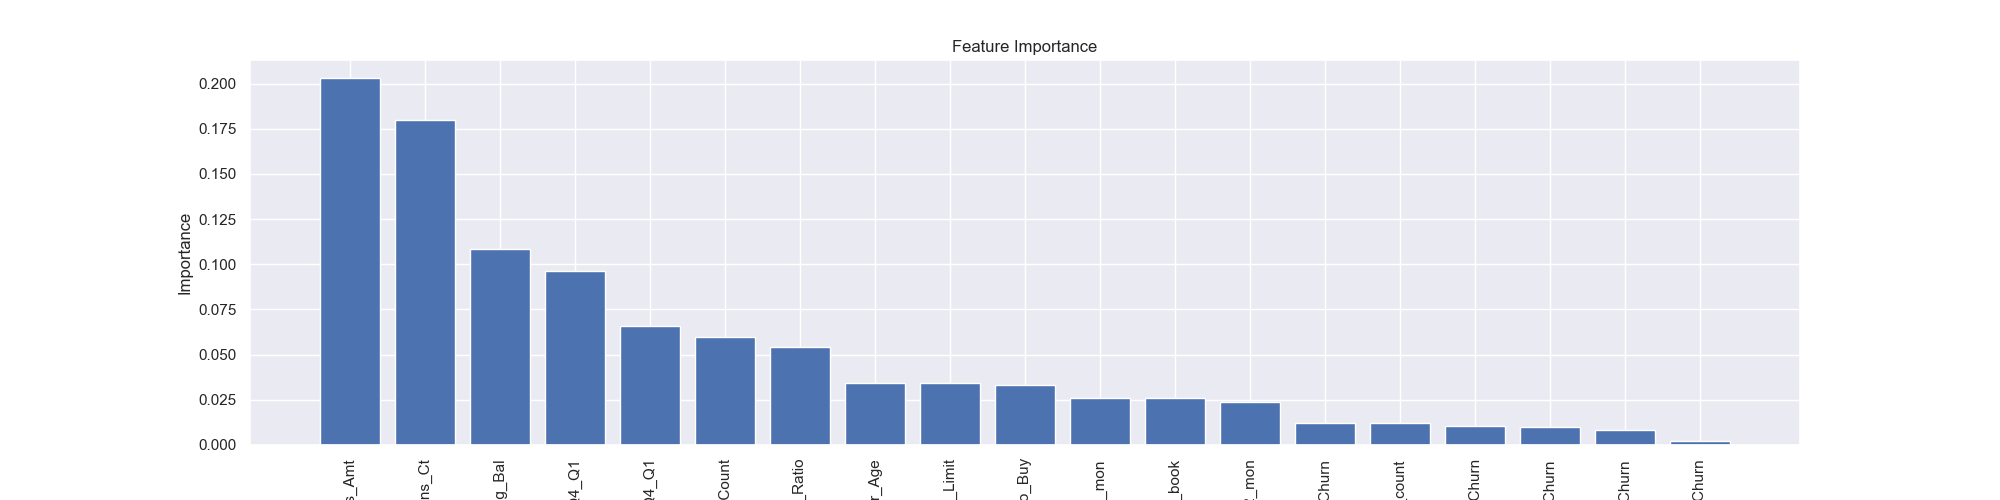
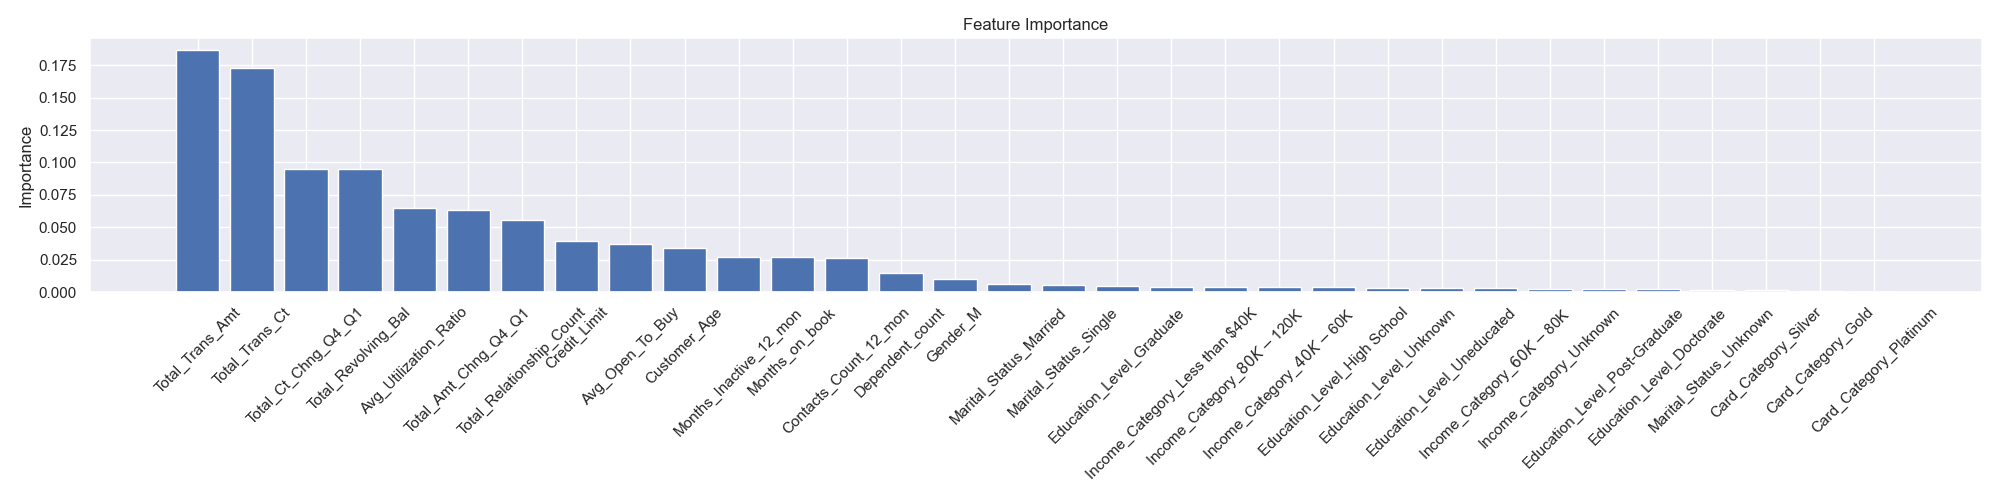
refactor: encoder_helper to produce one-hot-encoding

diff --git a/churn_script_logging_and_tests.py b/churn_script_logging_and_tests.py
@@ -30,8 +30,9 @@ def perform_eda():
 @pytest.fixture()
 def encoder_helper():
     """Test fixture for encoding category fields"""
+
     def _func(churn_df, category_lst):
-        cls.encoder_helper(churn_df, category_lst)
+        return cls.encoder_helper(churn_df, category_lst)
 
     return _func
 
@@ -48,7 +49,7 @@ def perform_feature_engineering():
     ]
 
     def _func(churn_df):
-        cls.encoder_helper(churn_df, cat_columns)
+        churn_df = cls.encoder_helper(churn_df, cat_columns)
         return cls.perform_feature_engineering(churn_df)
 
     return _func
@@ -67,7 +68,7 @@ def train_models():
     ]
 
     def _func(churn_df):
-        cls.encoder_helper(churn_df, cat_columns)
+        churn_df = cls.encoder_helper(churn_df, cat_columns)
         x_train, x_test, y_train, y_test = cls.perform_feature_engineering(churn_df)
         cls.train_models(x_train, x_test, y_train, y_test)
 
@@ -136,11 +137,19 @@ def test_encoder_helper(encoder_helper):
         'Income_Category',
         'Card_Category'
     ]
-    enc_columns = [f'{col}_Churn' for col in cat_columns]
+    enc_columns = ['Gender_M', 'Education_Level_Doctorate',
+                   'Education_Level_Graduate', 'Education_Level_High School',
+                   'Education_Level_Post-Graduate', 'Education_Level_Uneducated',
+                   'Education_Level_Unknown', 'Marital_Status_Married',
+                   'Marital_Status_Single', 'Marital_Status_Unknown',
+                   'Income_Category_$40K - $60K', 'Income_Category_$60K - $80K',
+                   'Income_Category_$80K - $120K', 'Income_Category_Less than $40K',
+                   'Income_Category_Unknown', 'Card_Category_Gold',
+                   'Card_Category_Platinum', 'Card_Category_Silver']
     churn_df = bank_data()
-    encoder_helper(churn_df, cat_columns)
+    churn_df = encoder_helper(churn_df, cat_columns)
 
-    assert set(cat_columns).issubset(churn_df.columns)
+    assert not set(cat_columns).issubset(churn_df.columns)
     assert set(enc_columns).issubset(churn_df.columns)
 
 
@@ -157,8 +166,8 @@ def test_perform_feature_engineering(perform_feature_engineering):
     assert isinstance(y_test, pd.Series)
     assert y_train.shape == (7088,)
     assert y_test.shape == (3039,)
-    assert x_train.shape == (7088, 19)
-    assert x_test.shape == (3039, 19)
+    assert x_train.shape == (7088, 32)
+    assert x_test.shape == (3039, 32)
 
 
 def test_train_models(train_models):

diff --git a/churn_library.py b/churn_library.py
@@ -106,14 +106,7 @@ def encoder_helper(
     output:
             df: pandas dataframe with new columns for
     """
-
-    def _calc_mean_churn(column: str):
-        groups: pd.Series = churn_df.groupby(column).mean()['Churn']
-        lst = [groups.loc[val] for val in churn_df[column]]
-        churn_df[f'{column}_Churn'] = lst
-
-    for category in category_lst:
-        _calc_mean_churn(category)
+    return pd.get_dummies(churn_df, columns=category_lst, drop_first=True)
 
 
 def perform_feature_engineering(churn_df: pd.DataFrame) \
@@ -145,11 +138,15 @@ def perform_feature_engineering(churn_df: pd.DataFrame) \
         'Total_Trans_Ct',
         'Total_Ct_Chng_Q4_Q1',
         'Avg_Utilization_Ratio',
-        'Gender_Churn',
-        'Education_Level_Churn',
-        'Marital_Status_Churn',
-        'Income_Category_Churn',
-        'Card_Category_Churn']
+        'Gender_M', 'Education_Level_Doctorate',
+        'Education_Level_Graduate', 'Education_Level_High School',
+        'Education_Level_Post-Graduate', 'Education_Level_Uneducated',
+        'Education_Level_Unknown', 'Marital_Status_Married',
+        'Marital_Status_Single', 'Marital_Status_Unknown',
+        'Income_Category_$40K - $60K', 'Income_Category_$60K - $80K',
+        'Income_Category_$80K - $120K', 'Income_Category_Less than $40K',
+        'Income_Category_Unknown', 'Card_Category_Gold',
+        'Card_Category_Platinum', 'Card_Category_Silver']
     features[keep_cols] = churn_df[keep_cols]
 
     # train test split
@@ -245,7 +242,8 @@ def feature_importance_plot(model: GridSearchCV,
     plt.bar(range(features_data.shape[1]), importances[indices])
 
     # Add feature names as x-axis labels
-    plt.xticks(range(features_data.shape[1]), names, rotation=90)
+    plt.xticks(range(features_data.shape[1]), names, rotation=45)
+    plt.tight_layout()
     plt.savefig(output_pth)
 
 
